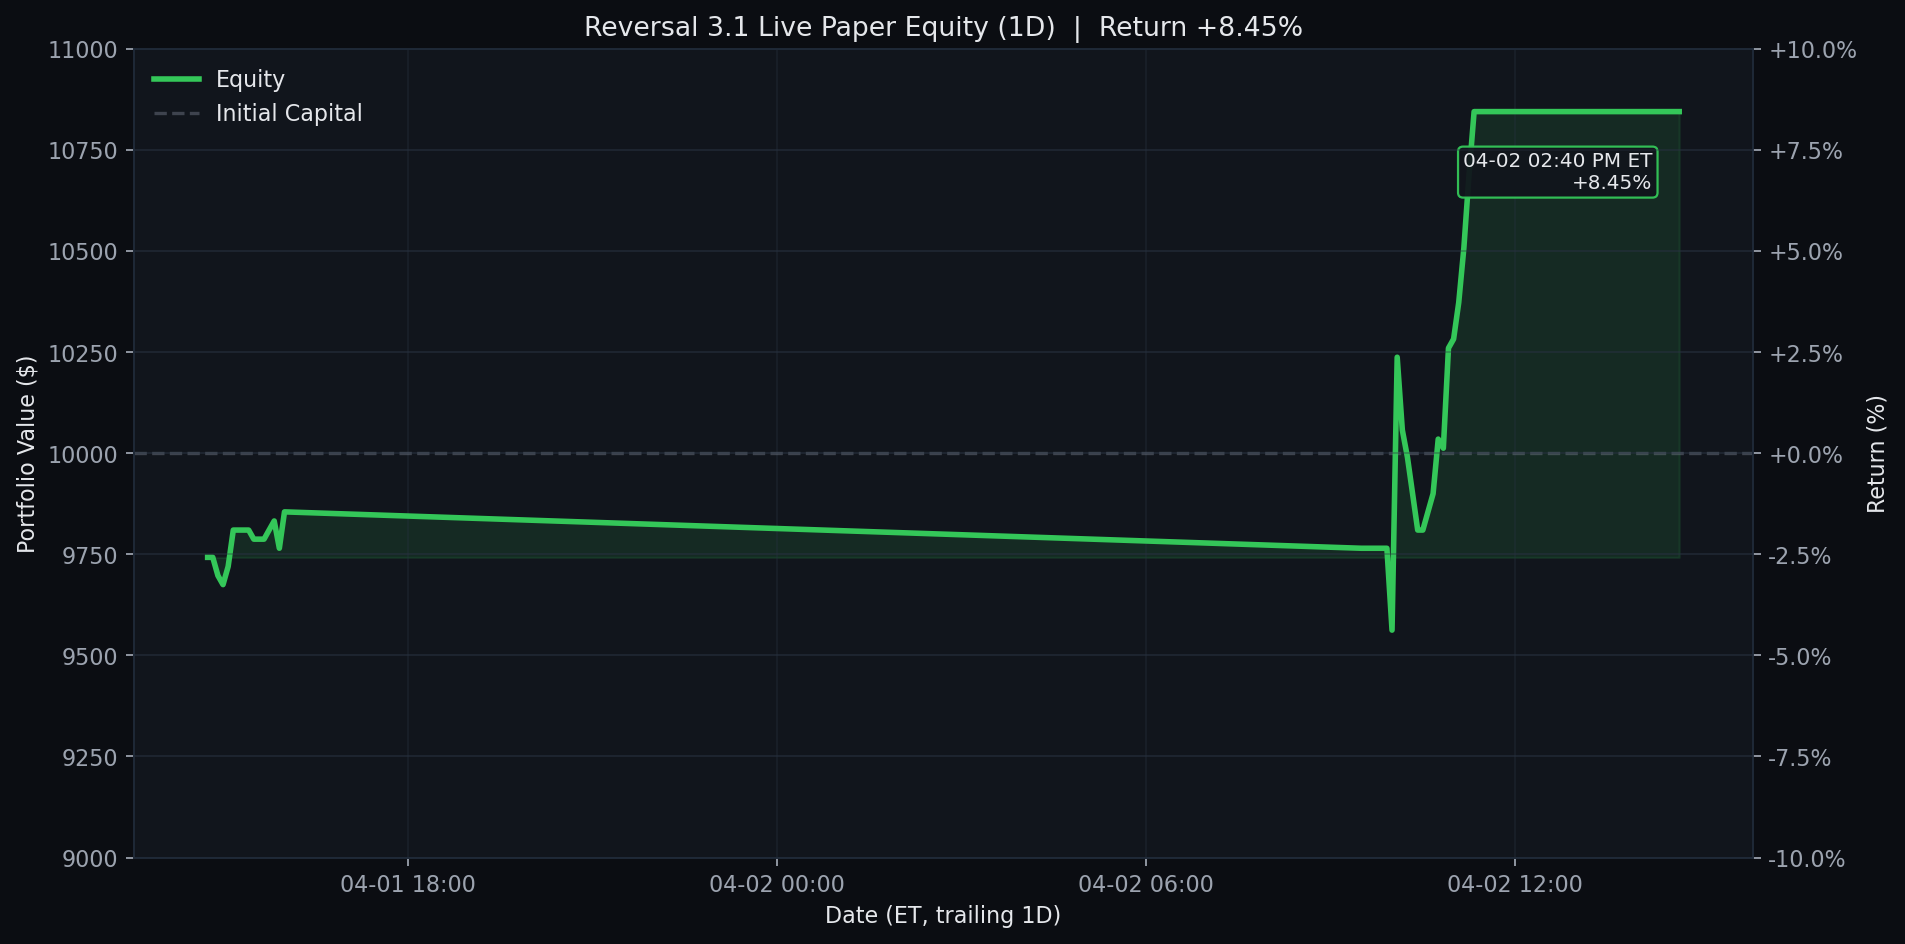
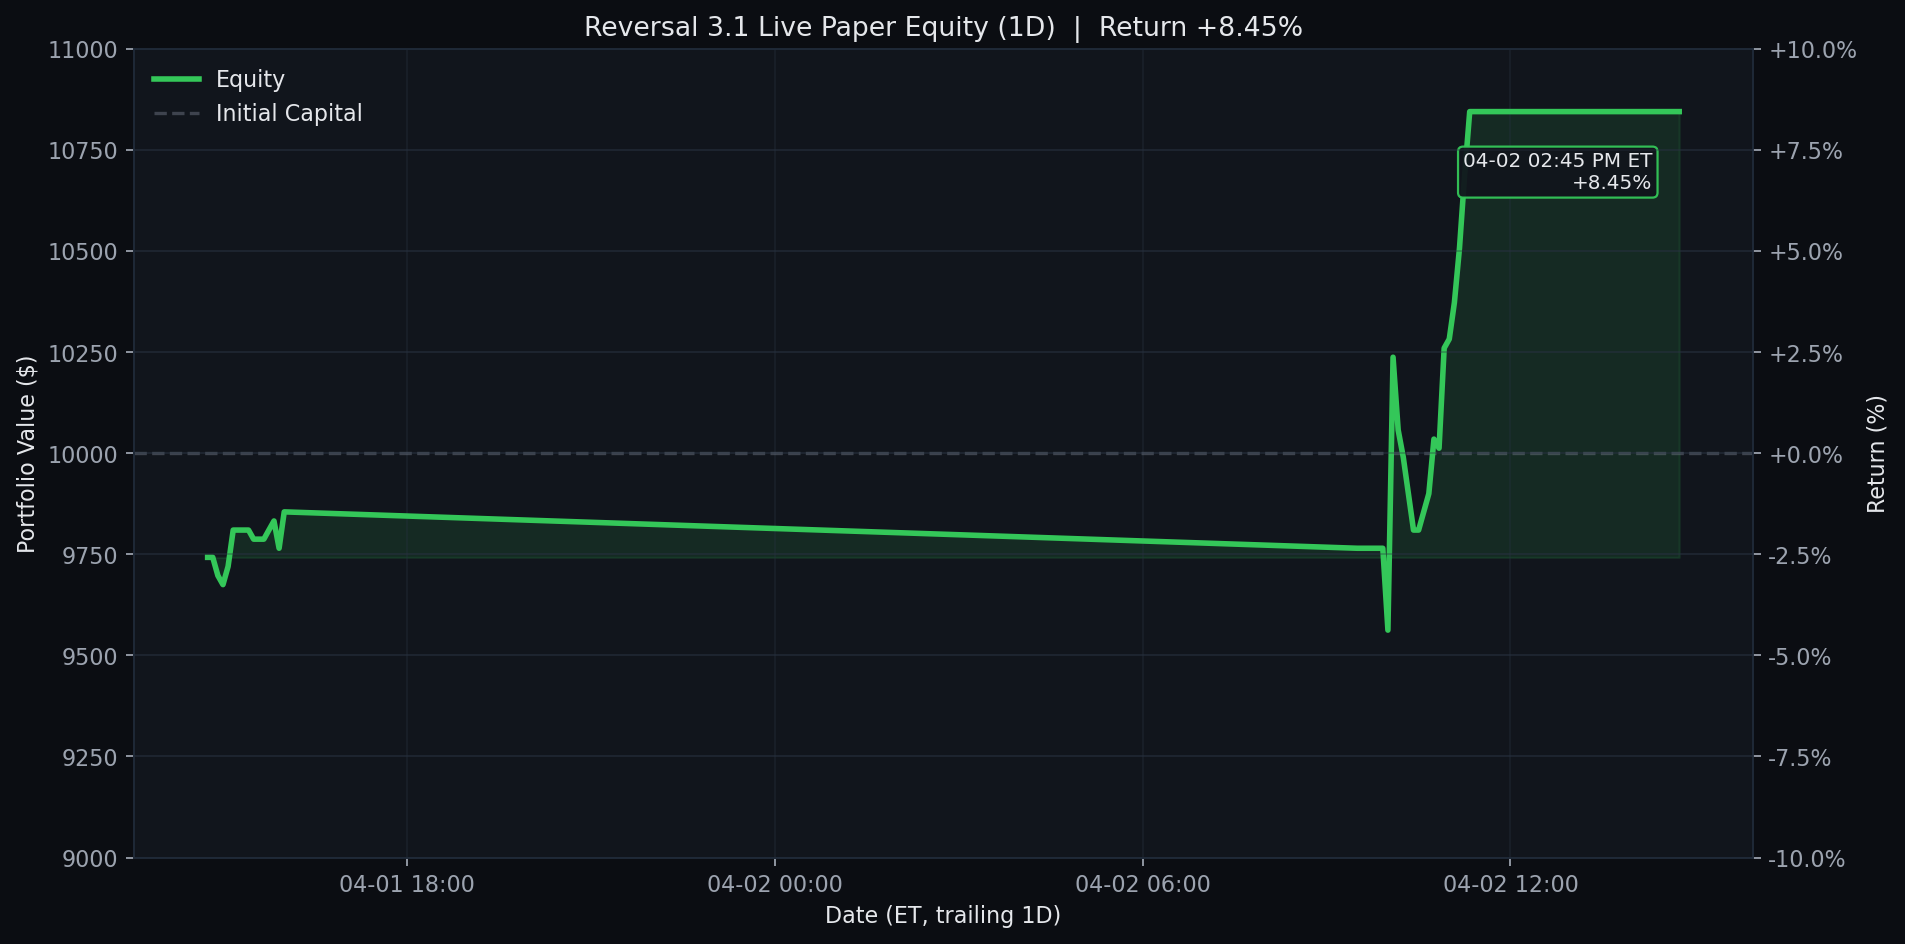
Update Reversal 3.1 live paper test 2026-04-02 14:45 ET

diff --git a/results/reversal_3_1_live/README.md b/results/reversal_3_1_live/README.md
@@ -1,7 +1,7 @@
 # Reversal 3.1 Live Paper Test
 
-Last updated (ET): `2026-04-02 14:40:05 EDT`
-Last processed slot: `manage_1430`
+Last updated (ET): `2026-04-02 14:45:05 EDT`
+Last processed slot: `manual_refresh`
 
 ## Active Configuration
 
@@ -40,18 +40,18 @@ ticker     contract_symbol entry_trade_date_et exit_trade_date_et  entry_option_
 
 ```text
 ticker  success_rate_%  matched_signals  current_drop_%  target_rebound_$  target_price  rolling_sigma_20d_%  call_candidate
-   WDC           97.30               37            0.85              1.77        296.97                91.06            True
-  ASML           92.86               14            2.84             26.99       1348.19                52.01            True
-  ABNB           92.50               40            0.67              0.59        124.94                36.75            True
-   MAR           90.00               30            0.91              2.13        332.55                28.45            True
-  DXCM           89.74               39            1.21              0.53         62.14                31.67            True
-  ORLY           89.74               39            0.61              0.39         91.93                22.81            True
-  SNPS           89.13               46            0.54              1.51        396.09                35.88            True
-  KLAC           87.50               32            1.08             11.45       1514.93                56.48            True
-  FAST           86.96               23            1.32              0.43         46.45                21.97            True
-  GILD           86.96               23            0.94              0.92        139.91                21.47            True
-  MCHP           86.49               37            0.70              0.32         65.24                45.66            True
-  CDNS           86.21               29            1.75              3.42        278.72                26.25            True
+   WDC           97.22               36            1.01              2.11        296.82                91.06            True
+  ASML           93.33               15            2.79             26.60       1348.36                52.01            True
+  ABNB           92.50               40            0.67              0.58        124.94                36.75            True
+  ORLY           90.24               41            0.58              0.37         91.94                22.81            True
+  DXCM           89.74               39            1.23              0.54         62.14                31.67            True
+  CDNS           89.19               37            1.37              2.70        279.03                26.25            True
+   MAR           88.57               35            0.77              1.80        332.69                28.45            True
+  GILD           88.46               26            0.77              0.76        139.98                21.47            True
+  MCHP           87.18               39            0.54              0.25         65.27                45.66            True
+   WBD           85.71               35            0.53              0.10         27.45                11.93            True
+  KLAC           85.29               34            0.98             10.42       1515.38                56.48            True
+  FAST           85.00               20            1.53              0.50         46.42                21.97            True
 ```
 
 ## Recent Events
@@ -72,7 +72,7 @@ ticker  success_rate_%  matched_signals  current_drop_%  target_rebound_$  targe
 
 ## Equity Curves
 
-Each chart is generated from the same live equity series with no-lookahead marks. The latest point is annotated with its exact ET checkpoint time and return %. GitHub does not support true app-style toggles, so the dashboard uses collapsible `1D / 1W / 1M` sections instead.
+Each chart is generated from the same live equity series with no-lookahead marks. The latest point is annotated with its exact ET checkpoint time and return %.
 
 <details>
 <summary><strong>1D</strong></summary>

diff --git a/README.md b/README.md
@@ -3,16 +3,16 @@
 <!-- reversal-3.1-live:start -->
 ## Reversal 3.1 Live Paper Test
 
-- Last updated (ET): `2026-04-02 14:40:05 EDT`
+- Last updated (ET): `2026-04-02 14:45:05 EDT`
 - Equity: `$10,845.00` | Realized: `$845.00` | Unrealized: `$0.00` | Open positions: `0`
 - Today closed trades: `1`
-- Current slot: `manage_1430`
+- Current slot: `manual_refresh`
 - Universe: `qqq_plus_leverage_etfs`
 - Chart windows: `1D / 1W / 1M` (default open panel: `1W`)
 
-_None_
+### Current Open Positions
 
-GitHub README does not support true app-style interactive tabs, so the chart windows below use GitHub-native collapsible sections.
+_None_
 
 <details>
 <summary><strong>1D</strong></summary>
